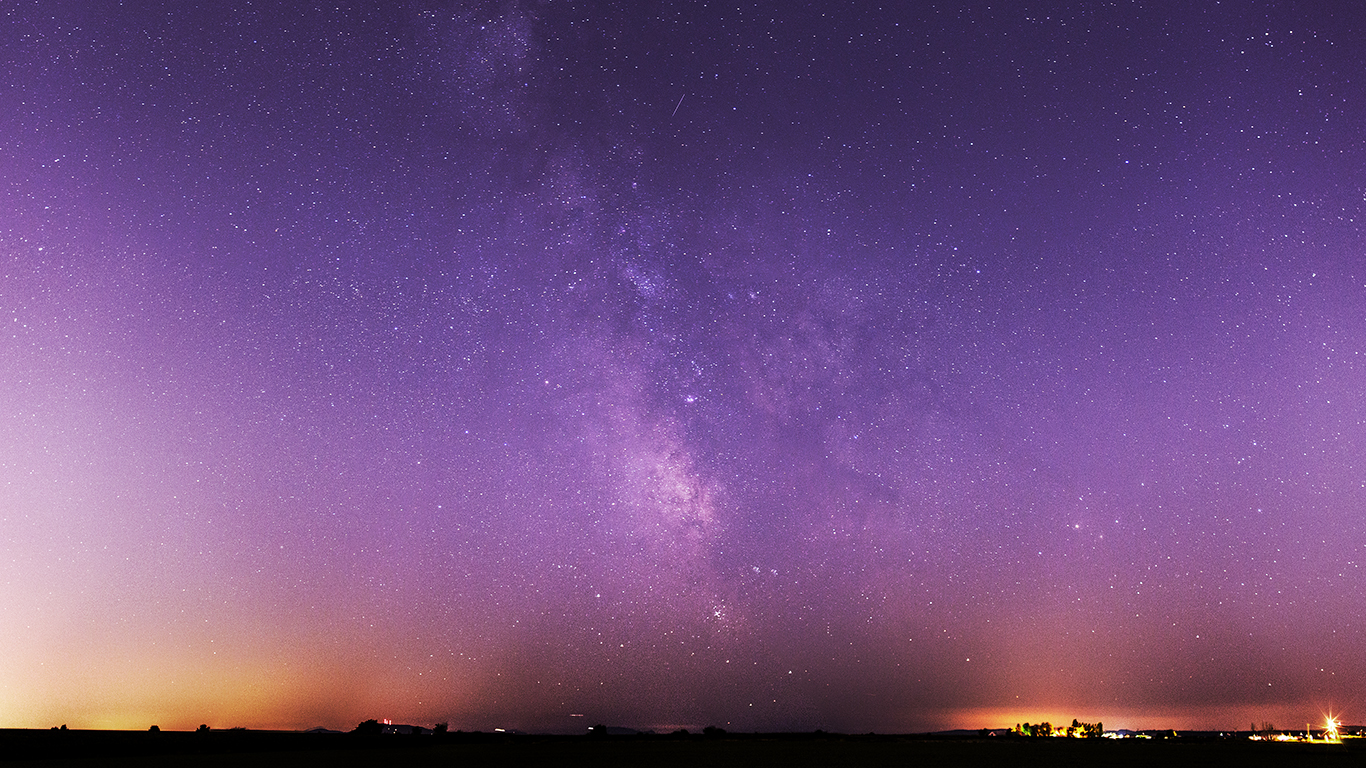
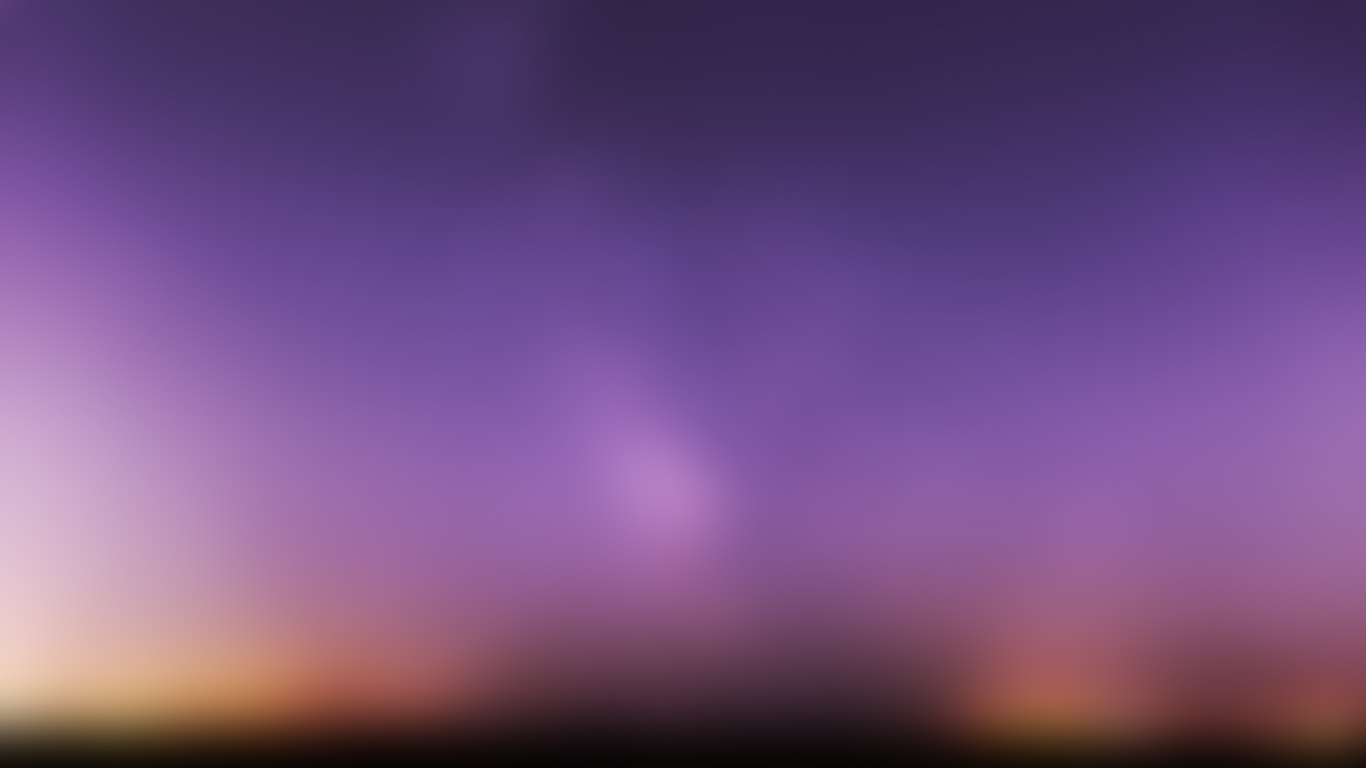
Let's do it.

diff --git a/style.css b/style.css
@@ -1,12 +1,12 @@
 body {
 	margin: 0;
-	background: url('images/blurbg.jpg') no-repeat fixed;
+	background: url('images/bg.jpg') no-repeat fixed;
 }
-.blurbg {
+/*.blurbg {
 	filter: blur(2px);
 	-webkit-filter: blur(2px);
 	background-color: (255,255,255,0.3);
-}
+}*/
 header {
 	width: auto;
 	text-align: center;
